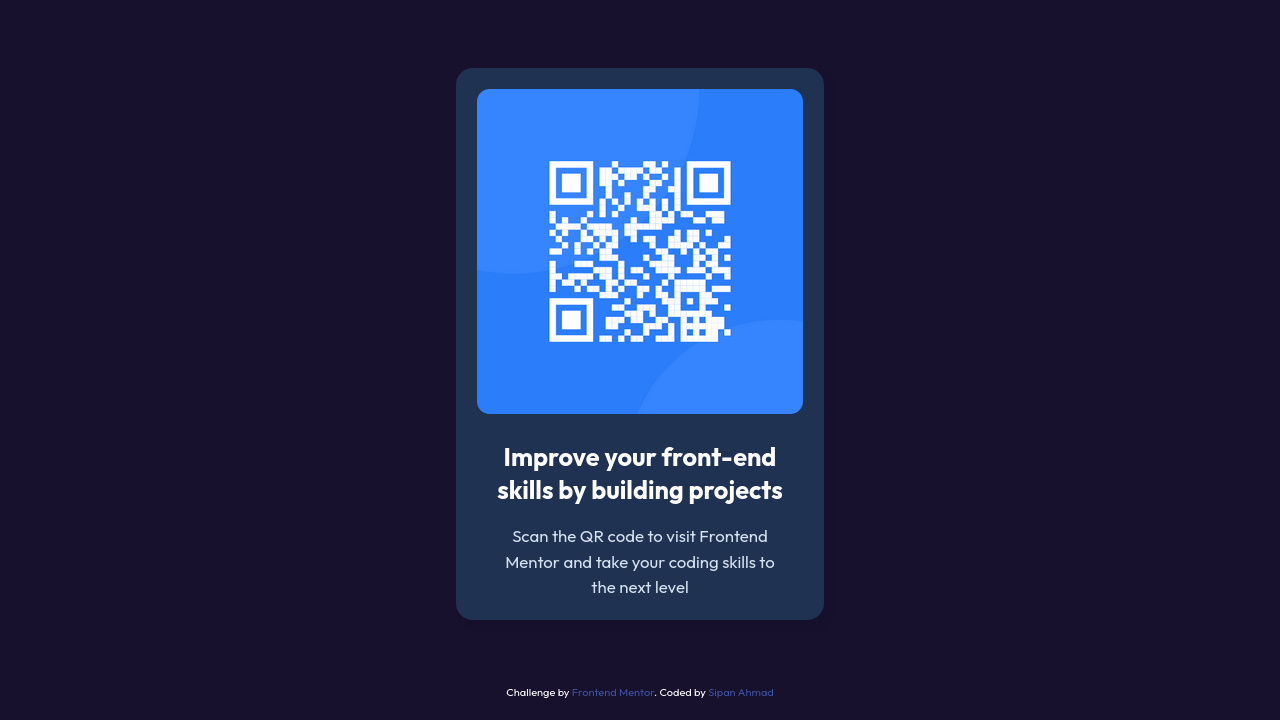
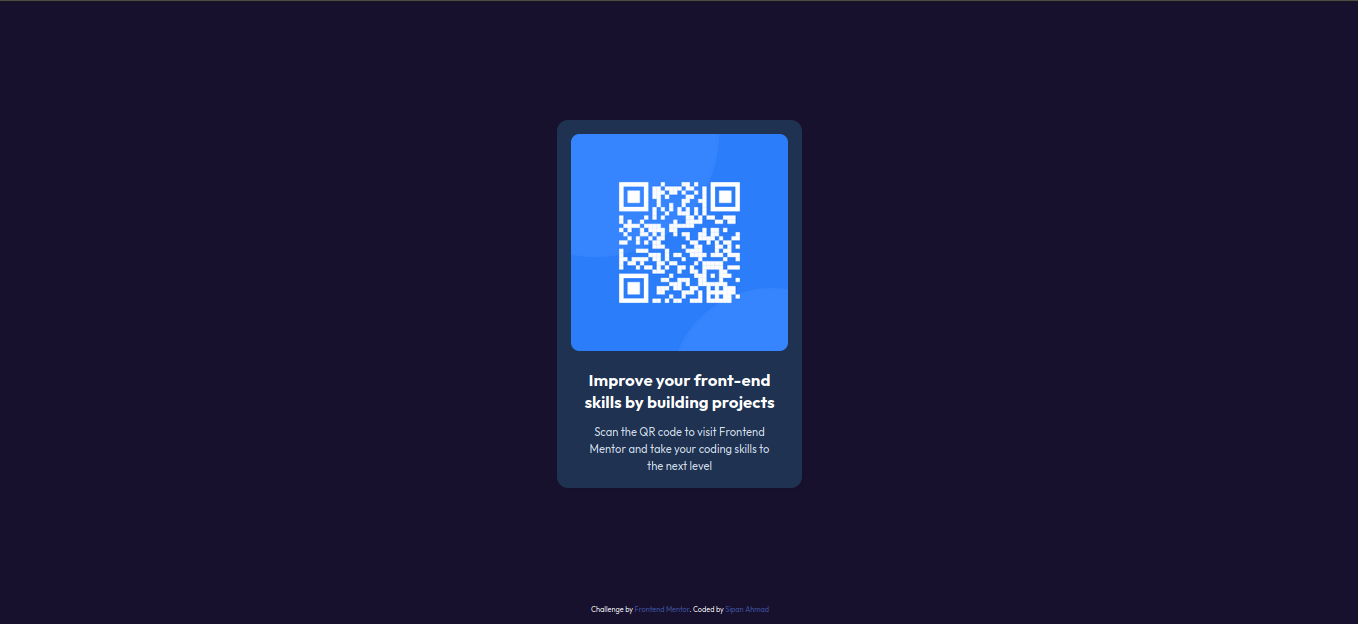
Some Editing

Changed region(s): [[0.3438, 0.0913, 0.6562, 0.883], [0.4062, 0.9439, 0.5938, 1.0]]

diff --git a/README.md b/README.md
@@ -21,9 +21,12 @@ The QR code component challenge tasks participants with building a user interfac
    - Measuring your Designing skills.
 
 ### Screenshot
-
+Desktop Design
 ![](./screenshots/desktop-design.png)
 
+Desktop Design Under Hover Effect
+
+![](./screenshots/desktop-design-hover.png)
 
 ### Links
 
